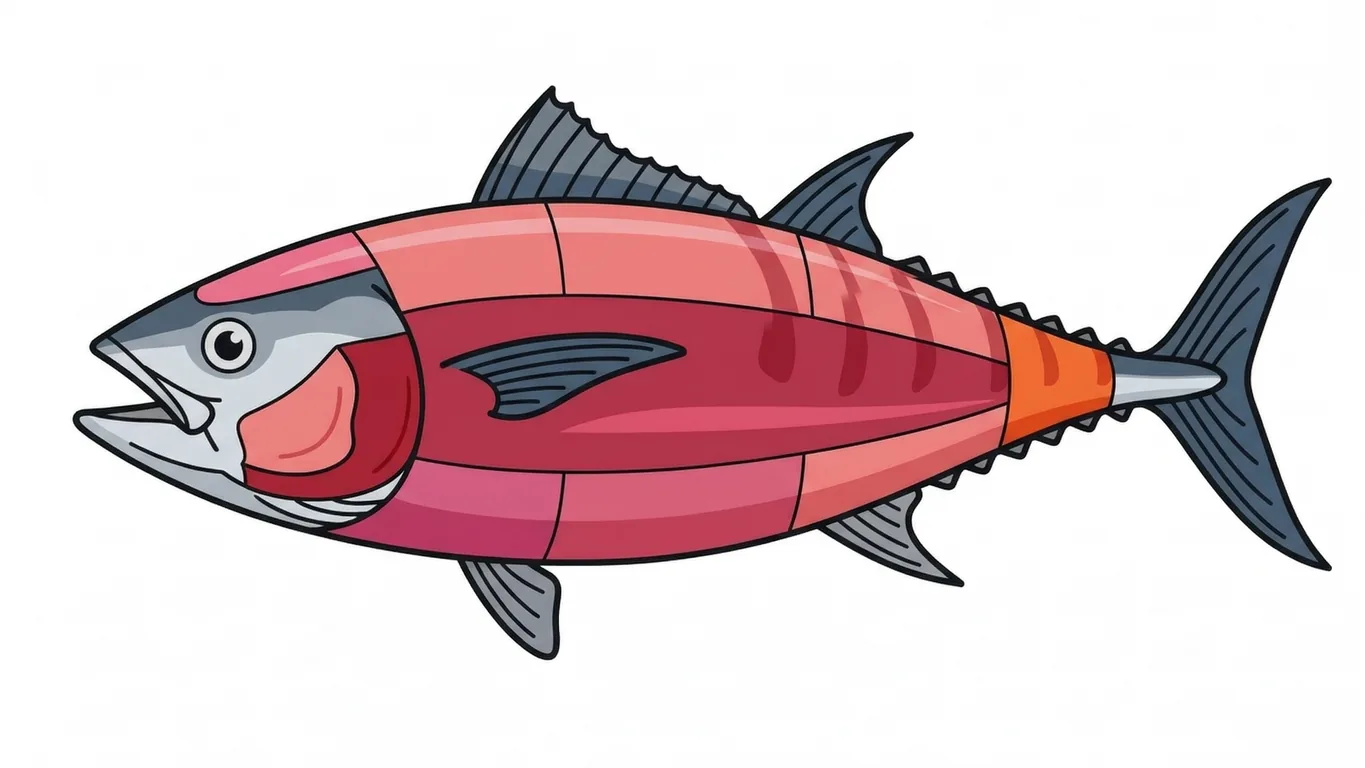
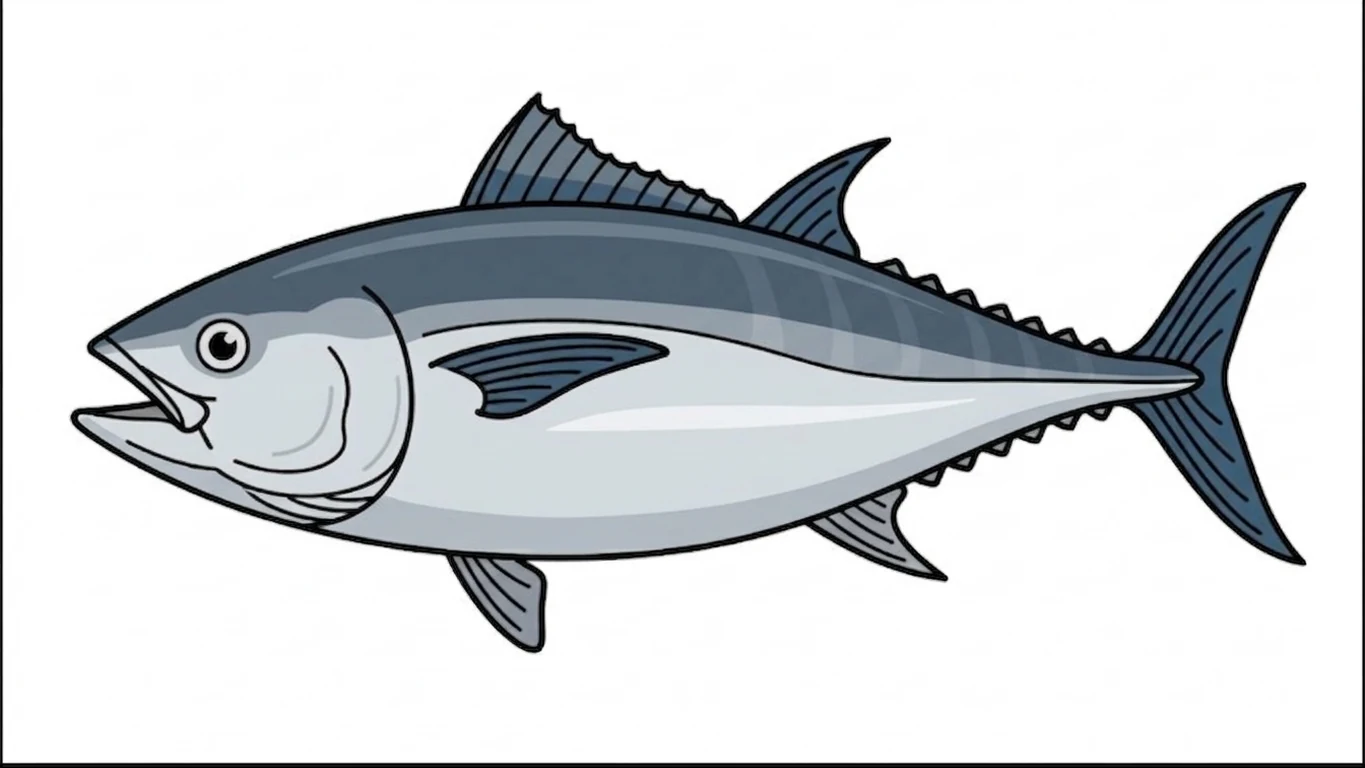
feat: 図鑑マップ背景を差し替え、中とろのエリア表記を背部・腹部に
Gemini 生成 PNG を 1365×768 cover で WebP 化。parts.chutoro の area を
「背部・腹部」にし、マップ詳細・クイズプールと整合させる。本番 DB は
マイグレーションで更新する。

Made-with: Cursor

Changed region(s): [[0.0, 0.0, 1.0, 1.0]]

diff --git a/src/lib/domain/seed.ts b/src/lib/domain/seed.ts
@@ -15,7 +15,7 @@ export const MOCK_ADMIN_EMAIL = "admin@example.com";
 
 export const seededParts: Part[] = [
   { id: "otoro", name: "大とろ", area: "腹部", rarity: 3, description: "最高級の脂のり", color: "#ff6b6b", sort_order: 1 },
-  { id: "chutoro", name: "中とろ", area: "腹部", rarity: 2, description: "脂と赤身のバランス", color: "#e85555", sort_order: 2 },
+  { id: "chutoro", name: "中とろ", area: "背部・腹部", rarity: 2, description: "脂と赤身のバランス", color: "#e85555", sort_order: 2 },
   { id: "akami", name: "赤身", area: "背部", rarity: 1, description: "旨味の王道", color: "#cc3333", sort_order: 3 },
   { id: "noten", name: "脳天", area: "頭部", rarity: 3, description: "大とろ級のとろける食感", color: "#ff8585", sort_order: 4 },
   { id: "hoho", name: "ほほ肉", area: "頭部", rarity: 3, description: "肉のような弾力と濃厚な旨味", color: "#d94444", sort_order: 5 },

diff --git a/src/components/TunaMap.tsx b/src/components/TunaMap.tsx
@@ -28,7 +28,7 @@ interface MapRegionDef {
 }
 
 /**
- * viewBox 1365×768。背景は `src/assets/zukan-tuna-map.webp` を import し `/_next/static/media/` で配信。
+ * viewBox 1365×768。背景は `src/assets/zukan-tuna-map.webp`（Gemini 生成 PNG を 1365×768 cover クロップ）を import。
  * 座標は図鑑スクリーンショット（部位マップ表示）に合わせた値。
  * 腹部：前＝大トロ、中後＝大トロ（別楕円）・中トロ（腹）。背＝中トロ（背）（いずれも部位 id は otoro / chutoro）。
  */
